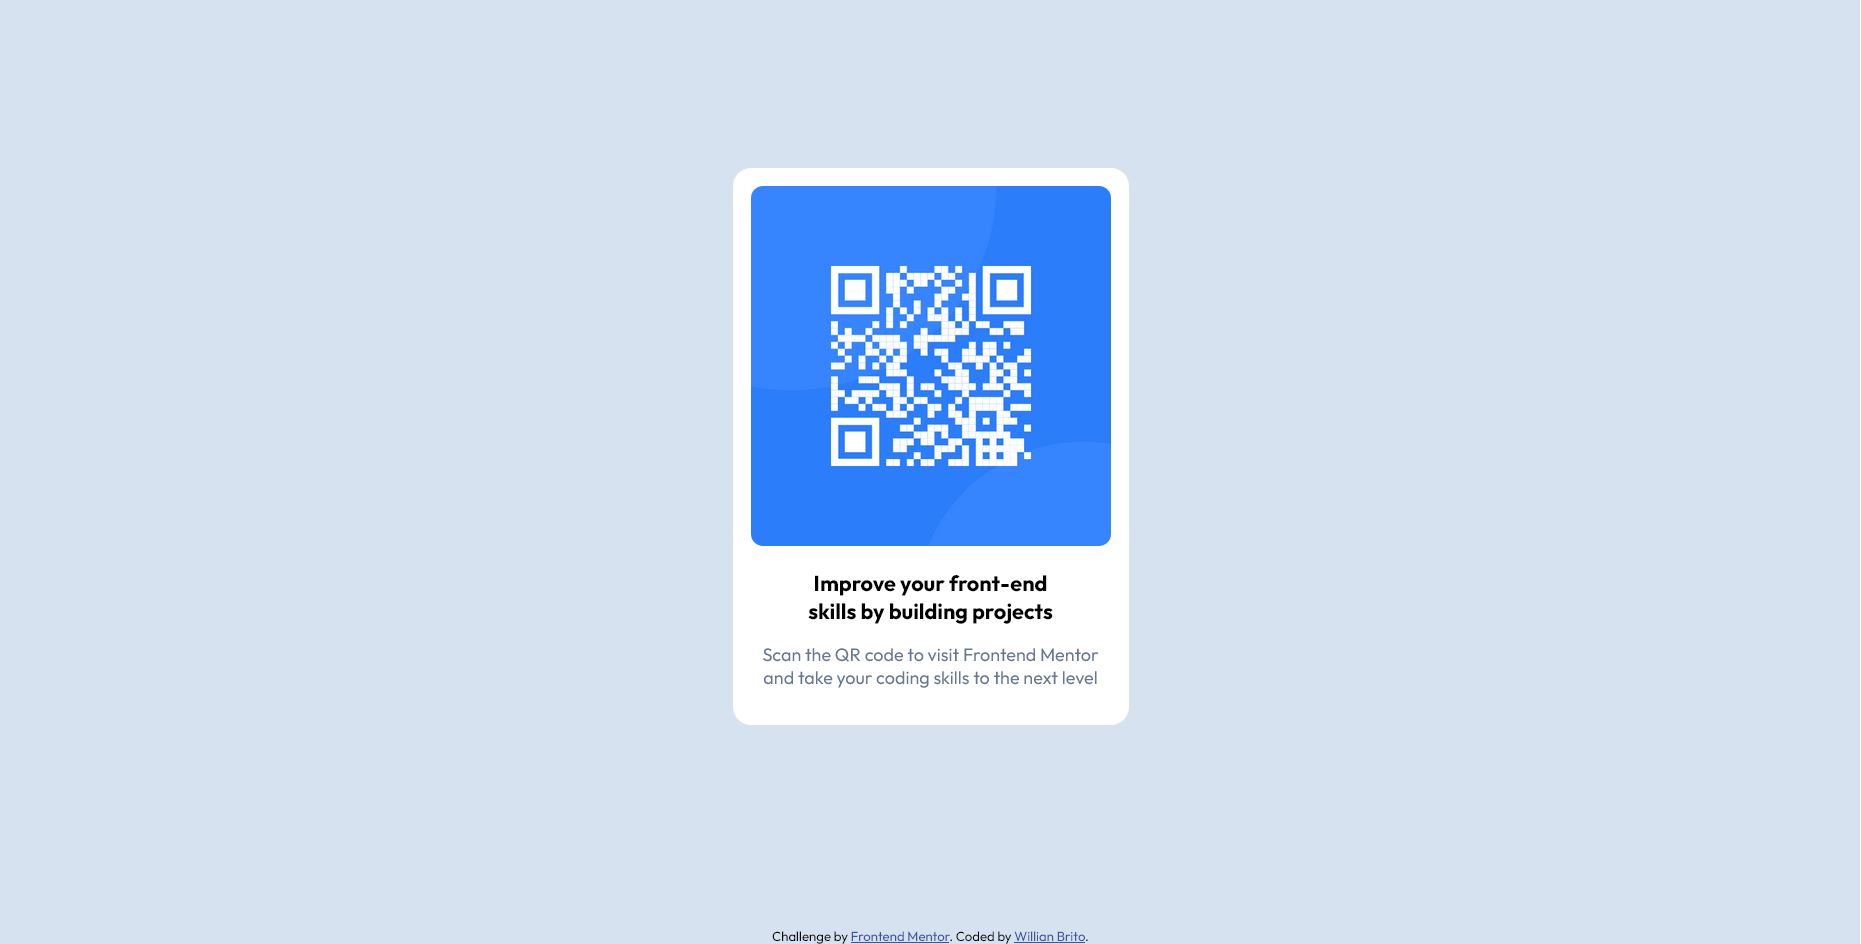
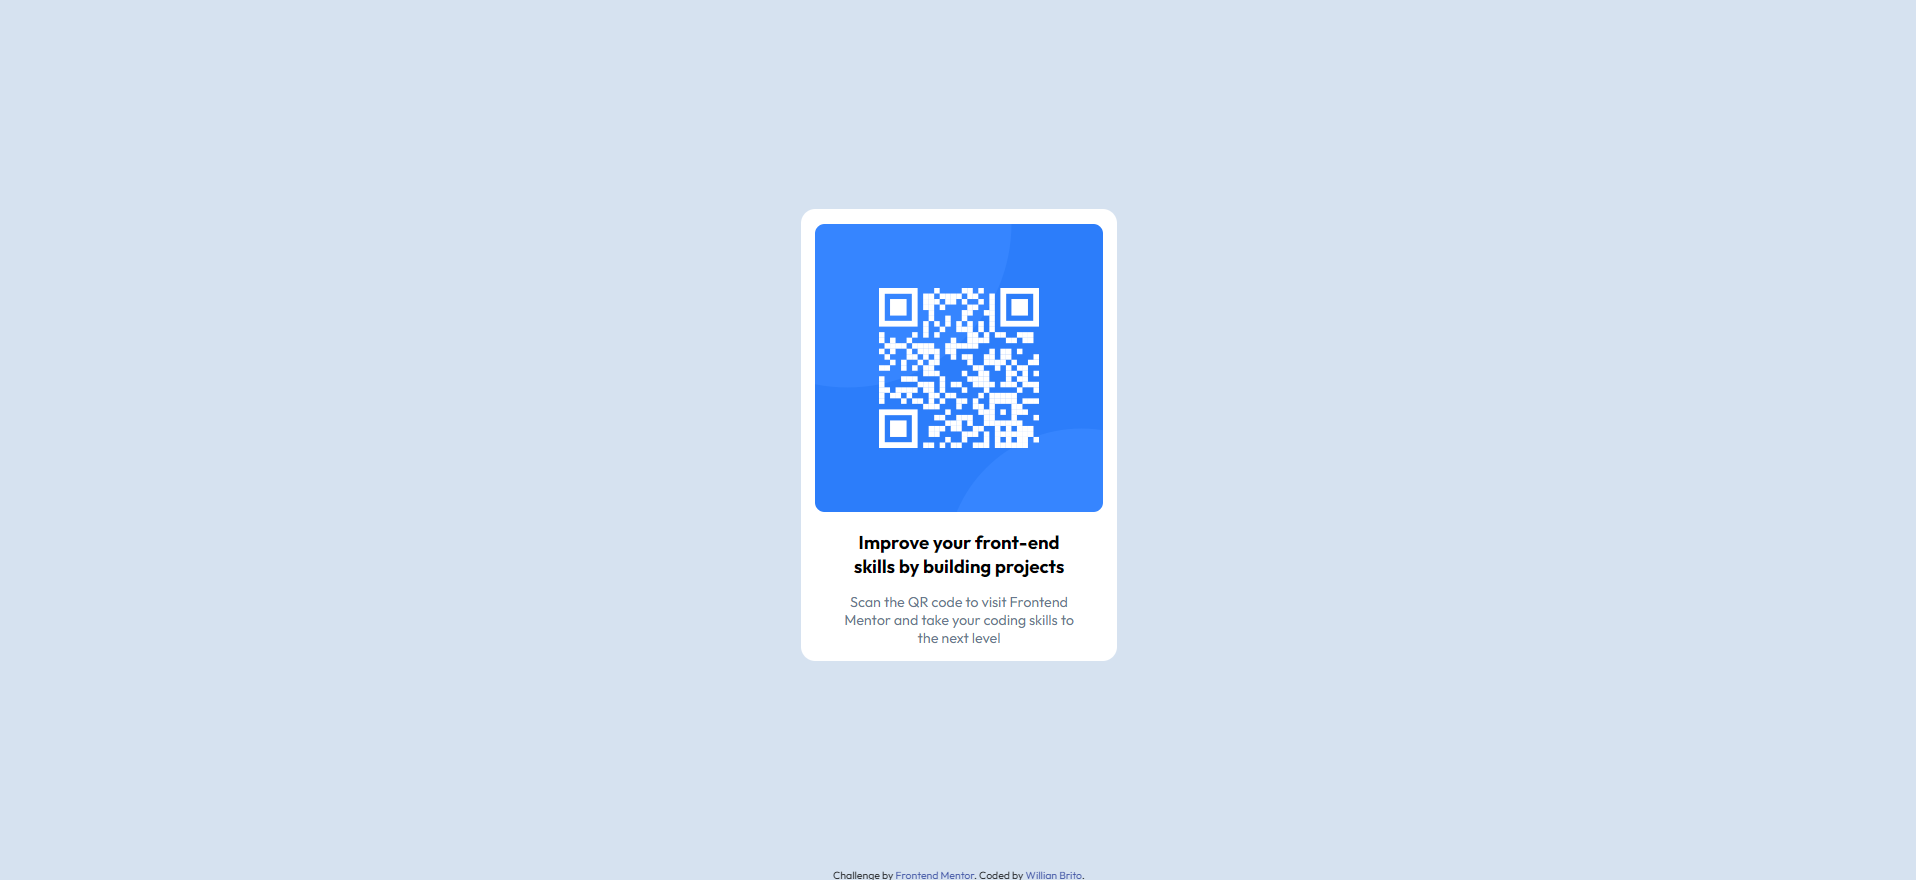
improvement in style

Changed region(s): [[0.374, 0.1534, 0.6233, 0.767], [0.9973, 0.0, 1.0, 1.0], [0.4052, 0.9818, 0.5922, 1.0]]

diff --git a/style.css b/style.css
@@ -8,7 +8,7 @@ body{
 .qr-code-card{
   border-style: none;
   border-radius: 15px;
-  margin: 140px auto;
+  margin: 11% auto 0%;
   min-width: 300px;
   width: 15%;
   padding: 15px;
@@ -24,13 +24,15 @@ body{
 }
 
 .card-title{
-  font-size: 1.2em;
-  width: 70%;
+  font-size: 1.3em;
+  width: 80%;
   margin: 15px auto;
 }
 
 .card-text{
   color: hsl(216, 15%, 48%);
+  margin: auto;
+  width: 85%;
 }
 
 .attribution{  

diff --git a/README.md b/README.md
@@ -1,87 +1,39 @@
-# Frontend Mentor - QR code component
+# Frontend Mentor - QR code component solution
 
-![Design preview for the QR code component coding challenge](./preview.jpg)
+This is a solution to the [QR code component challenge on Frontend Mentor](https://www.frontendmentor.io/challenges/qr-code-component-iux_sIO_H). 
 
-## Welcome! 👋
+## Table of contents
 
-Thanks for checking out this front-end coding challenge.
+- [Overview](#overview)
+  - [Screenshot](#screenshot)
+  - [Links](#links)
+- [My process](#my-process)
+  - [Built with](#built-with)
+  - [Continued development](#continued-development)
+- [Author](#author)
 
-[Frontend Mentor](https://www.frontendmentor.io) challenges help you improve your coding skills by building realistic projects.
+## Overview
 
-**To do this challenge, you need a basic understanding of HTML and CSS.**
+### Screenshot
 
-## The challenge
+![my-solution](./my-solution.png)
 
-Your challenge is to build out this QR code component and get it looking as close to the design as possible.
+### Links
 
-You can use any tools you like to help you complete the challenge. So if you've got something you'd like to practice, feel free to give it a go.
+- Solution URL: https://www.frontendmentor.io/solutions/qr-code-card-with-html-and-css-7pgqJcw6Fr
+- Live Site URL: https://kennedy-brito.github.io/qr-code-component/
 
-Want some support on the challenge? [Join our community](https://www.frontendmentor.io/community) and ask questions in the **#help** channel.
+## My process
 
-## Where to find everything
+### Built with
 
-Your task is to build out the project to the designs inside the `/design` folder. You will find both a mobile and a desktop version of the design. 
+- Semantic HTML5 markup
+- CSS custom properties
 
-The designs are in JPG static format. Using JPGs will mean that you'll need to use your best judgment for styles such as `font-size`, `padding` and `margin`. 
+### Continued development
 
-If you would like the design files (we provide Sketch & Figma versions) to inspect the design in more detail, you can [subscribe as a PRO member](https://www.frontendmentor.io/pro).
+I want to practice more the centering of elements in a page, i found strange how `margin: auto;` didn't center vertically
 
-You will find all the required assets in the `/images` folder. The assets are already optimized.
+## Author
 
-There is also a `style-guide.md` file containing the information you'll need, such as color palette and fonts.
-
-## Building your project
-
-Feel free to use any workflow that you feel comfortable with. Below is a suggested process, but do not feel like you need to follow these steps:
-
-1. Initialize your project as a public repository on [GitHub](https://github.com/). Creating a repo will make it easier to share your code with the community if you need help. If you're not sure how to do this, [have a read-through of this Try Git resource](https://try.github.io/).
-2. Configure your repository to publish your code to a web address. This will also be useful if you need some help during a challenge as you can share the URL for your project with your repo URL. There are a number of ways to do this, and we provide some recommendations below.
-3. Look through the designs to start planning out how you'll tackle the project. This step is crucial to help you think ahead for CSS classes to create reusable styles.
-4. Before adding any styles, structure your content with HTML. Writing your HTML first can help focus your attention on creating well-structured content.
-5. Write out the base styles for your project, including general content styles, such as `font-family` and `font-size`.
-6. Start adding styles to the top of the page and work down. Only move on to the next section once you're happy you've completed the area you're working on.
-
-## Deploying your project
-
-As mentioned above, there are many ways to host your project for free. Our recommended hosts are:
-
-- [GitHub Pages](https://pages.github.com/)
-- [Vercel](https://vercel.com/)
-- [Netlify](https://www.netlify.com/)
-
-You can host your site using one of these solutions or any of our other trusted providers. [Read more about our recommended and trusted hosts](https://medium.com/frontend-mentor/frontend-mentor-trusted-hosting-providers-bf000dfebe).
-
-## Create a custom `README.md`
-
-We strongly recommend overwriting this `README.md` with a custom one. We've provided a template inside the [`README-template.md`](./README-template.md) file in this starter code.
-
-The template provides a guide for what to add. A custom `README` will help you explain your project and reflect on your learnings. Please feel free to edit our template as much as you like.
-
-Once you've added your information to the template, delete this file and rename the `README-template.md` file to `README.md`. That will make it show up as your repository's README file.
-
-## Submitting your solution
-
-Submit your solution on the platform for the rest of the community to see. Follow our ["Complete guide to submitting solutions"](https://medium.com/frontend-mentor/a-complete-guide-to-submitting-solutions-on-frontend-mentor-ac6384162248) for tips on how to do this.
-
-Remember, if you're looking for feedback on your solution, be sure to ask questions when submitting it. The more specific and detailed you are with your questions, the higher the chance you'll get valuable feedback from the community.
-
-## Sharing your solution
-
-There are multiple places you can share your solution:
-
-1. Share your solution page in the **#finished-projects** channel of the [community](https://www.frontendmentor.io/community). 
-2. Tweet [@frontendmentor](https://twitter.com/frontendmentor) and mention **@frontendmentor**, including the repo and live URLs in the tweet. We'd love to take a look at what you've built and help share it around.
-3. Share your solution on other social channels like LinkedIn.
-4. Blog about your experience building your project. Writing about your workflow, technical choices, and talking through your code is a brilliant way to reinforce what you've learned. Great platforms to write on are [dev.to](https://dev.to/), [Hashnode](https://hashnode.com/), and [CodeNewbie](https://community.codenewbie.org/).
-
-We provide templates to help you share your solution once you've submitted it on the platform. Please do edit them and include specific questions when you're looking for feedback. 
-
-The more specific you are with your questions the more likely it is that another member of the community will give you feedback.
-
-## Got feedback for us?
-
-We love receiving feedback! We're always looking to improve our challenges and our platform. So if you have anything you'd like to mention, please email hi[at]frontendmentor[dot]io.
-
-This challenge is completely free. Please share it with anyone who will find it useful for practice.
-
-**Have fun building!** 🚀
+- Frontend Mentor - [@kennedy-brito](https://www.frontendmentor.io/profile/kennedy-brito)
